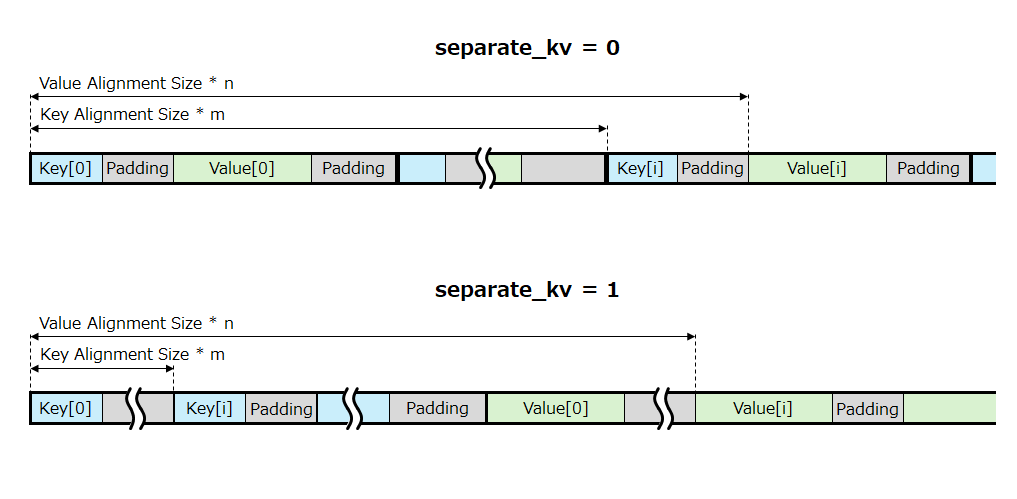
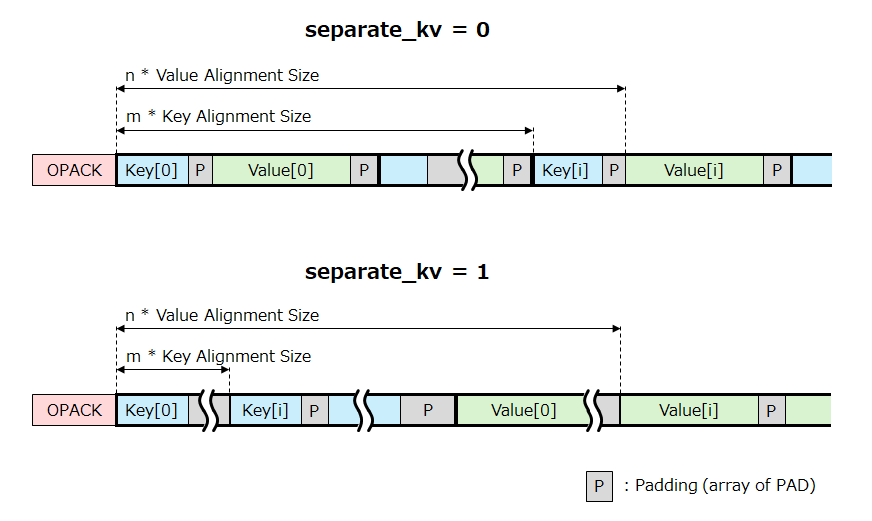
update README

diff --git a/README.md b/README.md
@@ -2,6 +2,44 @@
 
 universal binary data container.
 
+----
+
+## Syntax
+
+```abnf
+document = DOCSTA [ <meta-block> ] [ <variant> ] DOCEND
+
+variant = <array> | <object> | <primitive>
+
+array = <unpacked-array> | <packed-array>
+unpacked-array = ARYSTA [ <meta-block> ] *<variant> BLKEND
+packed-array = APACK [ <meta-block> ] <blob>
+
+object = <unpacked-object> | <packed-object>
+unpacked-object = OBJSTA [ <meta-block> ] *( <object-key> <variant> ) BLKEND
+packed-object = OPACK [ <meta-block> ] <blob>
+object-key = <number> | <string>
+
+meta-block = META <object>
+
+primitive = <number> | <boolean> | <string> | <blob> | TIME | NULL
+
+number = <unsigned-integer> | <signed-integer> | <float>
+unsigned-integer = U8 | U16 | U32 | U64 | U6Dxx
+signed-integer = S8 | S16 | S32 | S64
+float = FP32 | FP64
+
+boolean = BOOL | FALSE | TRUE
+
+string = STR1L | STR2L | STR4L | STR8L | STR4B
+blob = BLOB1L | BLOB2L | BLOB4L | BLOB8L
+```
+
+- No tokens can be placed before `DOCSTA`.
+- No tokens can be placed after `DOCEND`.
+
+----
+
 ## Token Format
 
 ### Fixed Length Token
@@ -63,42 +101,6 @@ universal binary data container.
 
 ----
 
-## Syntax
-
-```abnf
-document = DOCSTA [ <meta-block> ] [ <variant> ] DOCEND
-
-variant = <array> | <object> | <primitive>
-
-array = <unpacked-array> | <packed-array>
-unpacked-array = ARYSTA [ <meta-block> ] *<variant> BLKEND
-packed-array = APACK [ <meta-block> ] <blob>
-
-object = <unpacked-object> | <packed-object>
-unpacked-object = OBJSTA [ <meta-block> ] *( <object-key> <variant> ) BLKEND
-packed-object = OPACK [ <meta-block> ] <blob>
-object-key = <number> | <string>
-
-meta-block = META <object>
-
-primitive = <number> | <boolean> | <string> | <blob> | TIME | NULL
-
-number = <unsigned-integer> | <signed-integer> | <float>
-unsigned-integer = U6Dxx | U8 | U16 | U32 | U64
-signed-integer = S8 | S16 | S32 | S64
-float = FP32 | FP64
-
-boolean = BOOL | FALSE | TRUE
-
-string = STR1L | STR2L | STR4L | STR8L | STR4B
-blob = BLOB1L | BLOB2L | BLOB4L | BLOB8L
-```
-
-- No tokens can be placed before `DOCSTA`.
-- No tokens can be placed after `DOCEND`.
-
-----
-
 ## Document Level Tokens
 
 ### Document Start (`DOCSTA`)
@@ -154,6 +156,8 @@ blob = BLOB1L | BLOB2L | BLOB4L | BLOB8L
 
 ## Array / Object Packing
 
+![](./images/separate_kv.png)
+
 ### Packed Array (`APACK`)
 
 |Offset|Mnemonic|Description|
@@ -165,17 +169,17 @@ blob = BLOB1L | BLOB2L | BLOB4L | BLOB8L
 
 |Bit Range|Mnemonic|Description|
 |:--:|:--:|:--|
-|7:6|`align_size`|Aligment Size|
+|7:6|`value_align_size`|Aligment Size|
 |5:0|`val_type`|Value Type|
 
-#### `align_size`
+#### `value_align_size`
 
-|Value|Description|
+|Value|Aligment Boundary|
 |:--:|:--|
-|0|No Padding|
-|1|2 Byte|
-|2|4 Byte|
-|3|8 Byte|
+|0|No aligmnent|
+|1|2 Byte boundary|
+|2|4 Byte boundary|
+|3|8 Byte boundary|
 
 #### `val_type`
 
@@ -196,14 +200,14 @@ blob = BLOB1L | BLOB2L | BLOB4L | BLOB8L
 
 |Bit Range|Mnemonic|Description|
 |:--:|:--:|:--|
-|7:6|`align_size`|Aligment Size|
+|7:6|`key_align_size`|Aligment Size|
 |5|`separate_kv`|Make keys and value into separate chunks|
 |4|reserved|
 |3:0|`key_type`|Value Type|
 
-#### `align_size`
+#### `key_align_size`
 
-Same as `align_size` of `value_packing_arg`
+See `value_align_size`
 
 #### `key_type`
 
